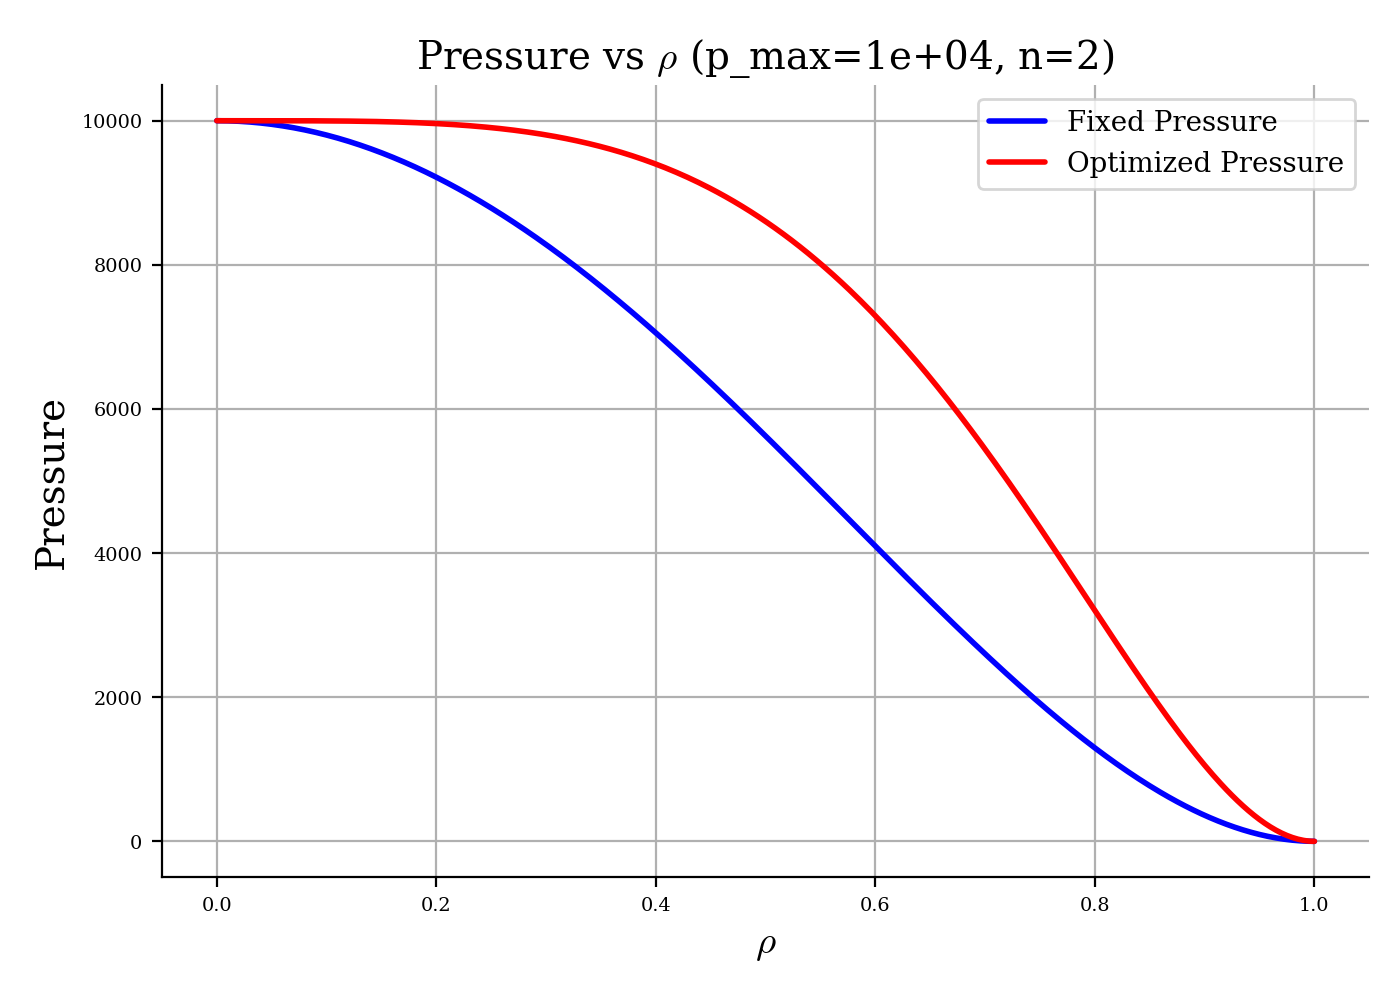
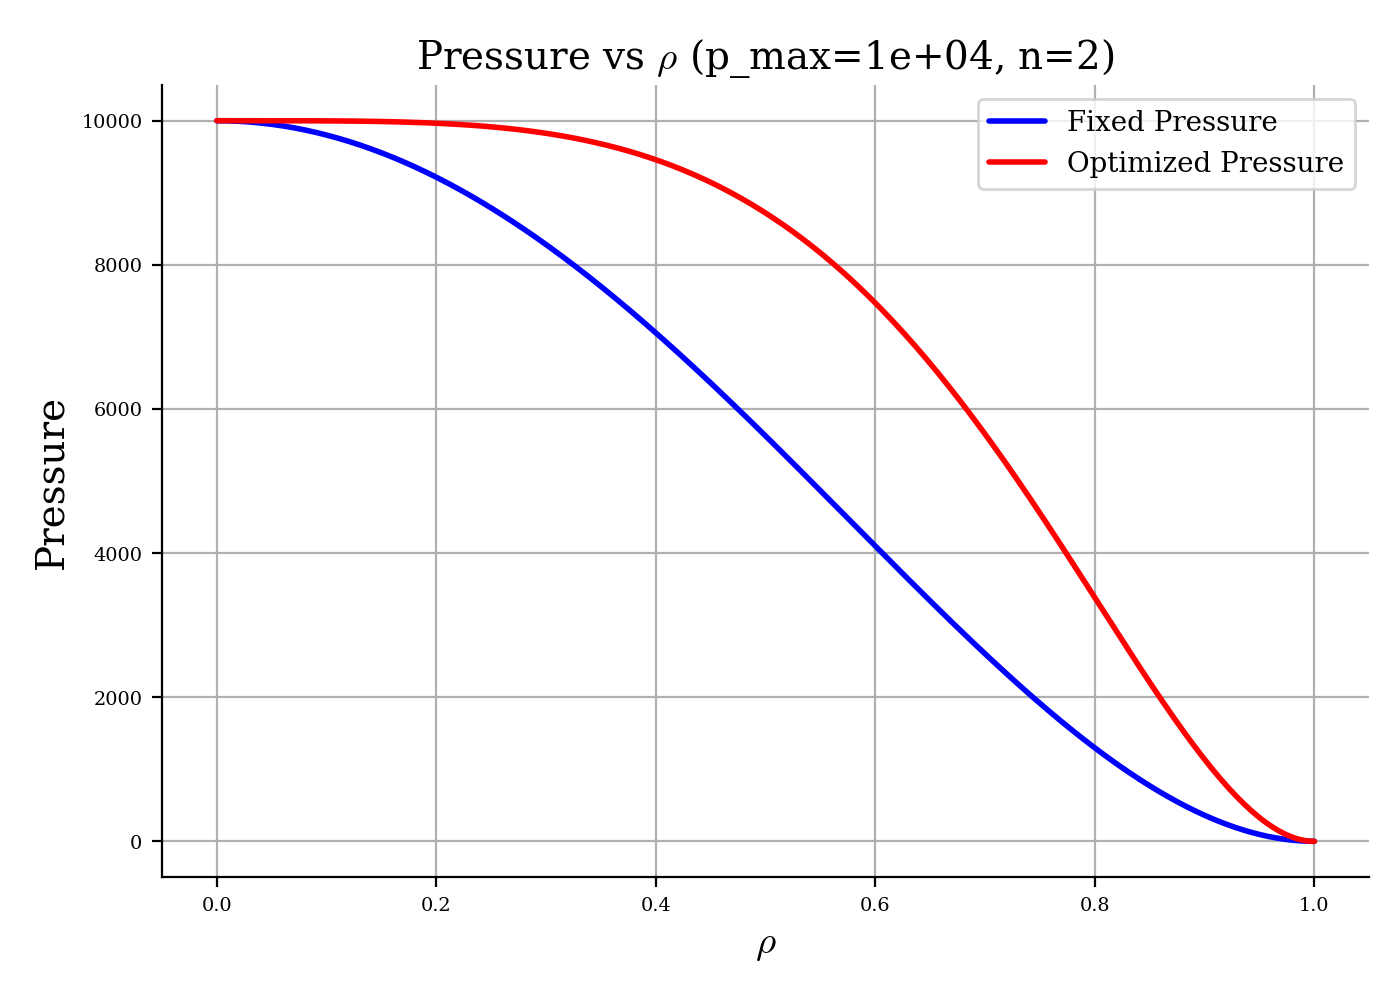
augmented Lagrangian significantly improves even Fixed-Pressure opt. Shit takes too long, however - switching to Torch

diff --git a/Scratch/poly/continuation/opt.py b/Scratch/poly/continuation/opt.py
@@ -119,7 +119,7 @@ def run_optimization(p_scale, out_dir, fix_pressure: bool):
         ftol = 5e-2,
         xtol = 1e-3,
         gtol = 1e-4,
-        maxiter=10,
+        maxiter=100,
         copy=True,
         verbose=3,
     )
